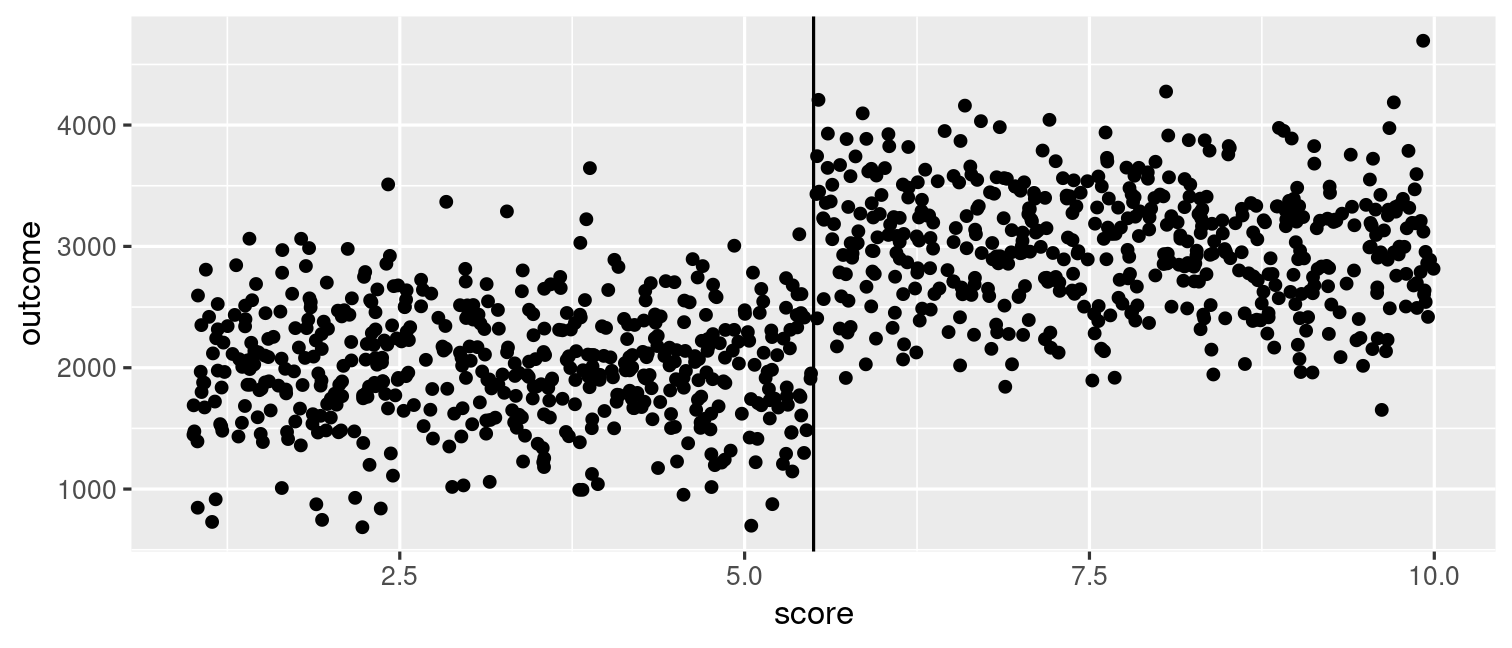
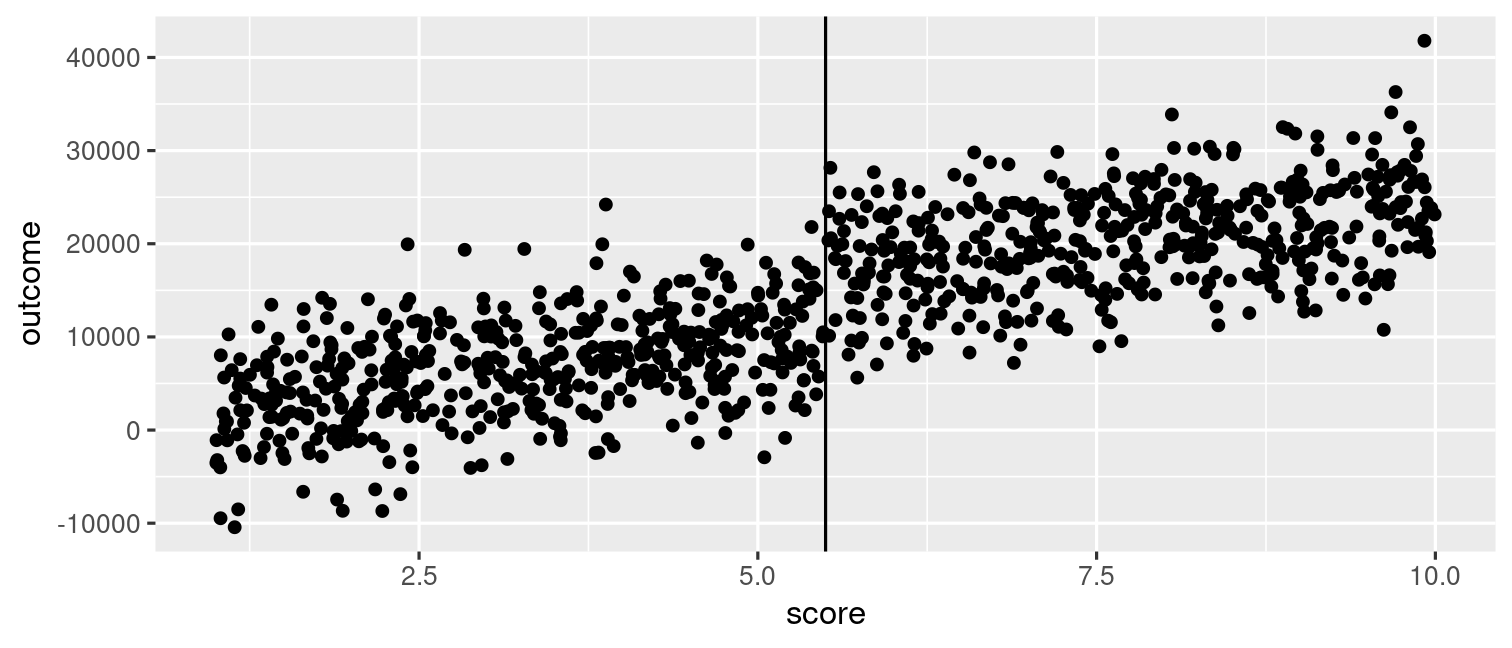
slides upl

diff --git a/slides/lecture3_geographic_rdd_and_fe/presentation3.html b/slides/lecture3_geographic_rdd_and_fe/presentation3.html
@@ -95,7 +95,7 @@ class: inverse, center, middle
 
 ```r
 df &lt;- tibble(score=runif(1000, 1, 10), treatment = if_else(score&gt;5.5, 1, 0),
-             outcome = if_else(treatment == 1, rnorm(1000, 3000, 500), rnorm(1000, 2000, 500)))
+             outcome = if_else(treatment == 1, 2000*score + rnorm(1000, 5000, 5000), 2000*score + rnorm(1000, 0, 5000)))
 
 df |&gt; ggplot(aes(x = score, y = outcome)) + 
   geom_point() +
@@ -145,27 +145,27 @@ df |&gt; mutate(xc = score - 5.5) |&gt; feols(outcome ~ treatment + xc) |&gt;
 &lt;tbody&gt;
   &lt;tr&gt;
    &lt;td style="text-align:left;"&gt; (Intercept) &lt;/td&gt;
-   &lt;td style="text-align:center;"&gt; 1974.738*** &lt;/td&gt;
+   &lt;td style="text-align:center;"&gt; 10747.380*** &lt;/td&gt;
   &lt;/tr&gt;
   &lt;tr&gt;
    &lt;td style="text-align:left;"&gt;  &lt;/td&gt;
-   &lt;td style="text-align:center;"&gt; (34.547) &lt;/td&gt;
+   &lt;td style="text-align:center;"&gt; (345.473) &lt;/td&gt;
   &lt;/tr&gt;
   &lt;tr&gt;
    &lt;td style="text-align:left;"&gt; treatment &lt;/td&gt;
-   &lt;td style="text-align:center;"&gt; 1070.578*** &lt;/td&gt;
+   &lt;td style="text-align:center;"&gt; 5705.775*** &lt;/td&gt;
   &lt;/tr&gt;
   &lt;tr&gt;
    &lt;td style="text-align:left;"&gt;  &lt;/td&gt;
-   &lt;td style="text-align:center;"&gt; (62.091) &lt;/td&gt;
+   &lt;td style="text-align:center;"&gt; (620.907) &lt;/td&gt;
   &lt;/tr&gt;
   &lt;tr&gt;
    &lt;td style="text-align:left;"&gt; xc &lt;/td&gt;
-   &lt;td style="text-align:center;"&gt; −17.136 &lt;/td&gt;
+   &lt;td style="text-align:center;"&gt; 1828.637*** &lt;/td&gt;
   &lt;/tr&gt;
   &lt;tr&gt;
    &lt;td style="text-align:left;box-shadow: 0px 1px"&gt;  &lt;/td&gt;
-   &lt;td style="text-align:center;box-shadow: 0px 1px"&gt; (12.004) &lt;/td&gt;
+   &lt;td style="text-align:center;box-shadow: 0px 1px"&gt; (120.037) &lt;/td&gt;
   &lt;/tr&gt;
   &lt;tr&gt;
    &lt;td style="text-align:left;"&gt; Num.Obs. &lt;/td&gt;
@@ -210,7 +210,7 @@ df |&gt; mutate(xc = score - 5.5) |&gt; feols(outcome ~ treatment + xc) |&gt;
 
 
 ```r
-models &lt;- map(c(1, 0.5, 0.25, 0.1, 0.05), ~ df |&gt; 
+models &lt;- map(c(3, 2, 1, 0.5), ~ df |&gt; 
                 mutate(xc = score - 5.5) |&gt;
                 filter(abs(xc) &lt; .x) |&gt; 
                 feols(outcome ~ treatment + xc))
@@ -226,65 +226,57 @@ modelsummary(models, stars=T, gof_map=c('nobs'))
    &lt;th style="text-align:center;"&gt;   (2) &lt;/th&gt;
    &lt;th style="text-align:center;"&gt;   (3) &lt;/th&gt;
    &lt;th style="text-align:center;"&gt;   (4) &lt;/th&gt;
-   &lt;th style="text-align:center;"&gt;   (5) &lt;/th&gt;
   &lt;/tr&gt;
  &lt;/thead&gt;
 &lt;tbody&gt;
   &lt;tr&gt;
    &lt;td style="text-align:left;"&gt; (Intercept) &lt;/td&gt;
-   &lt;td style="text-align:center;"&gt; 1924.283*** &lt;/td&gt;
-   &lt;td style="text-align:center;"&gt; 1937.130*** &lt;/td&gt;
-   &lt;td style="text-align:center;"&gt; 1765.173*** &lt;/td&gt;
-   &lt;td style="text-align:center;"&gt; 1693.165*** &lt;/td&gt;
-   &lt;td style="text-align:center;"&gt; 2487.222+ &lt;/td&gt;
+   &lt;td style="text-align:center;"&gt; 10692.807*** &lt;/td&gt;
+   &lt;td style="text-align:center;"&gt; 10518.426*** &lt;/td&gt;
+   &lt;td style="text-align:center;"&gt; 10242.834*** &lt;/td&gt;
+   &lt;td style="text-align:center;"&gt; 10371.302*** &lt;/td&gt;
   &lt;/tr&gt;
   &lt;tr&gt;
    &lt;td style="text-align:left;"&gt;  &lt;/td&gt;
-   &lt;td style="text-align:center;"&gt; (78.898) &lt;/td&gt;
-   &lt;td style="text-align:center;"&gt; (116.531) &lt;/td&gt;
-   &lt;td style="text-align:center;"&gt; (189.572) &lt;/td&gt;
-   &lt;td style="text-align:center;"&gt; (348.191) &lt;/td&gt;
-   &lt;td style="text-align:center;"&gt; (903.896) &lt;/td&gt;
+   &lt;td style="text-align:center;"&gt; (413.470) &lt;/td&gt;
+   &lt;td style="text-align:center;"&gt; (520.311) &lt;/td&gt;
+   &lt;td style="text-align:center;"&gt; (788.983) &lt;/td&gt;
+   &lt;td style="text-align:center;"&gt; (1165.311) &lt;/td&gt;
   &lt;/tr&gt;
   &lt;tr&gt;
    &lt;td style="text-align:left;"&gt; treatment &lt;/td&gt;
-   &lt;td style="text-align:center;"&gt; 1182.033*** &lt;/td&gt;
-   &lt;td style="text-align:center;"&gt; 1195.229*** &lt;/td&gt;
-   &lt;td style="text-align:center;"&gt; 1582.020*** &lt;/td&gt;
-   &lt;td style="text-align:center;"&gt; 1788.995** &lt;/td&gt;
-   &lt;td style="text-align:center;"&gt; 154.853 &lt;/td&gt;
+   &lt;td style="text-align:center;"&gt; 6115.793*** &lt;/td&gt;
+   &lt;td style="text-align:center;"&gt; 6283.666*** &lt;/td&gt;
+   &lt;td style="text-align:center;"&gt; 6820.330*** &lt;/td&gt;
+   &lt;td style="text-align:center;"&gt; 6952.293** &lt;/td&gt;
   &lt;/tr&gt;
   &lt;tr&gt;
    &lt;td style="text-align:left;"&gt;  &lt;/td&gt;
-   &lt;td style="text-align:center;"&gt; (139.734) &lt;/td&gt;
-   &lt;td style="text-align:center;"&gt; (212.793) &lt;/td&gt;
-   &lt;td style="text-align:center;"&gt; (348.832) &lt;/td&gt;
-   &lt;td style="text-align:center;"&gt; (588.024) &lt;/td&gt;
-   &lt;td style="text-align:center;"&gt; (2002.882) &lt;/td&gt;
+   &lt;td style="text-align:center;"&gt; (752.828) &lt;/td&gt;
+   &lt;td style="text-align:center;"&gt; (937.685) &lt;/td&gt;
+   &lt;td style="text-align:center;"&gt; (1397.339) &lt;/td&gt;
+   &lt;td style="text-align:center;"&gt; (2127.929) &lt;/td&gt;
   &lt;/tr&gt;
   &lt;tr&gt;
    &lt;td style="text-align:left;"&gt; xc &lt;/td&gt;
-   &lt;td style="text-align:center;"&gt; −87.048 &lt;/td&gt;
-   &lt;td style="text-align:center;"&gt; −114.782 &lt;/td&gt;
-   &lt;td style="text-align:center;"&gt; −1820.161 &lt;/td&gt;
-   &lt;td style="text-align:center;"&gt; −3790.016 &lt;/td&gt;
-   &lt;td style="text-align:center;"&gt; 27302.817 &lt;/td&gt;
+   &lt;td style="text-align:center;"&gt; 1685.156*** &lt;/td&gt;
+   &lt;td style="text-align:center;"&gt; 1552.431*** &lt;/td&gt;
+   &lt;td style="text-align:center;"&gt; 1129.521 &lt;/td&gt;
+   &lt;td style="text-align:center;"&gt; 852.184 &lt;/td&gt;
   &lt;/tr&gt;
   &lt;tr&gt;
    &lt;td style="text-align:left;box-shadow: 0px 1px"&gt;  &lt;/td&gt;
-   &lt;td style="text-align:center;box-shadow: 0px 1px"&gt; (121.806) &lt;/td&gt;
-   &lt;td style="text-align:center;box-shadow: 0px 1px"&gt; (360.994) &lt;/td&gt;
-   &lt;td style="text-align:center;box-shadow: 0px 1px"&gt; (1175.318) &lt;/td&gt;
-   &lt;td style="text-align:center;box-shadow: 0px 1px"&gt; (4611.500) &lt;/td&gt;
-   &lt;td style="text-align:center;box-shadow: 0px 1px"&gt; (38755.743) &lt;/td&gt;
+   &lt;td style="text-align:center;box-shadow: 0px 1px"&gt; (219.565) &lt;/td&gt;
+   &lt;td style="text-align:center;box-shadow: 0px 1px"&gt; (404.500) &lt;/td&gt;
+   &lt;td style="text-align:center;box-shadow: 0px 1px"&gt; (1218.063) &lt;/td&gt;
+   &lt;td style="text-align:center;box-shadow: 0px 1px"&gt; (3609.941) &lt;/td&gt;
   &lt;/tr&gt;
   &lt;tr&gt;
    &lt;td style="text-align:left;"&gt; Num.Obs. &lt;/td&gt;
+   &lt;td style="text-align:center;"&gt; 666 &lt;/td&gt;
+   &lt;td style="text-align:center;"&gt; 450 &lt;/td&gt;
    &lt;td style="text-align:center;"&gt; 219 &lt;/td&gt;
    &lt;td style="text-align:center;"&gt; 112 &lt;/td&gt;
-   &lt;td style="text-align:center;"&gt; 53 &lt;/td&gt;
-   &lt;td style="text-align:center;"&gt; 18 &lt;/td&gt;
-   &lt;td style="text-align:center;"&gt; 7 &lt;/td&gt;
   &lt;/tr&gt;
 &lt;/tbody&gt;
 &lt;tfoot&gt;&lt;tr&gt;&lt;td style="padding: 0; " colspan="100%"&gt;
